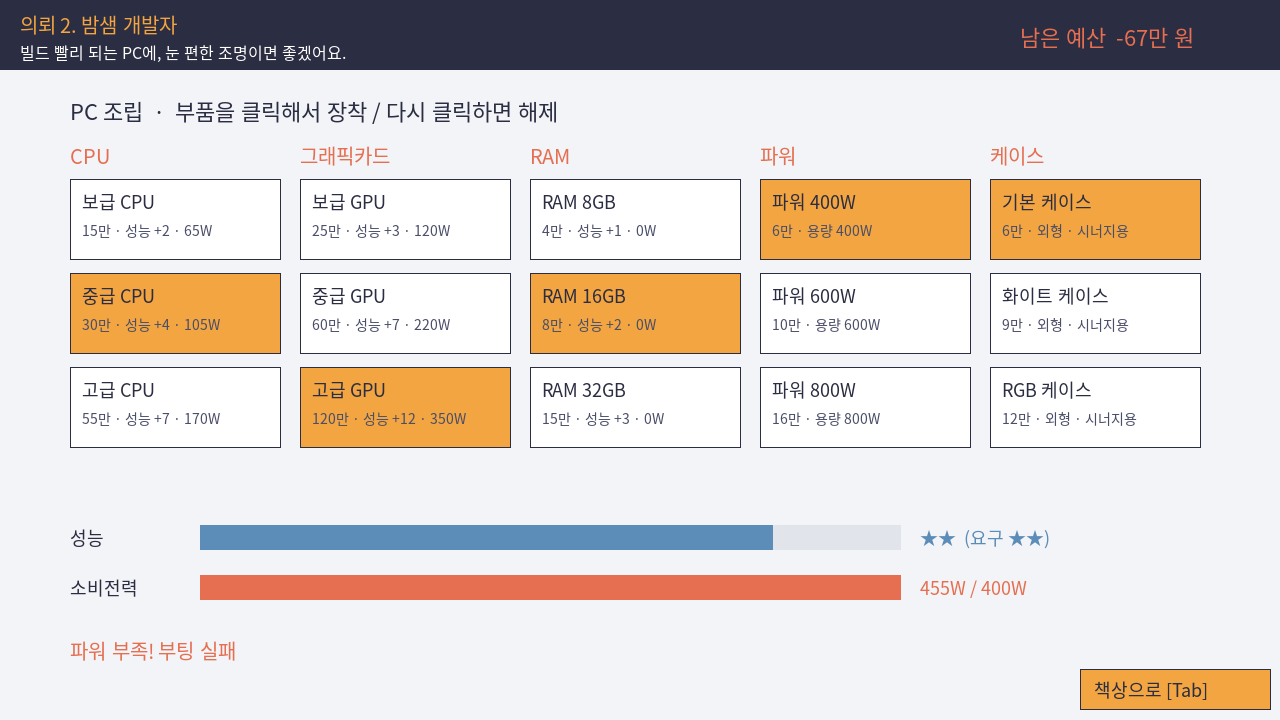
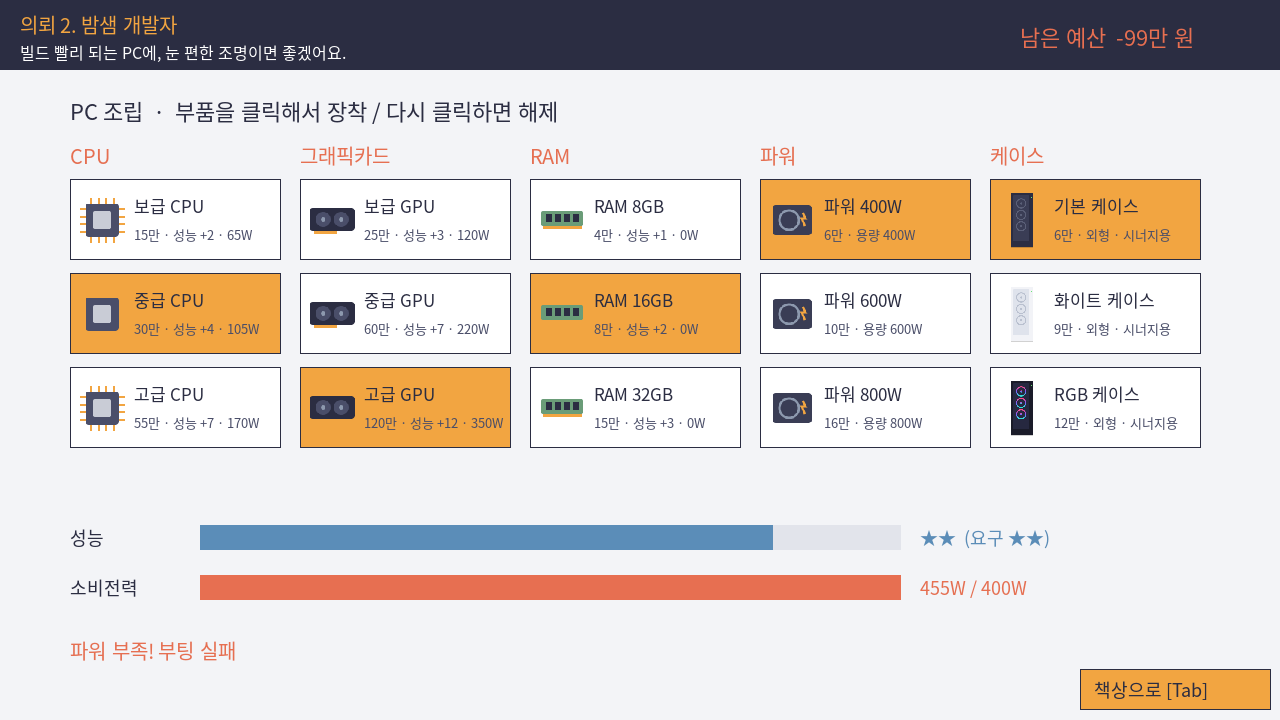
게임 화면 그래픽: 소품 · 방 배경 · 책상 · PC 케이스 · 부품 스프라이트
Claude-Session: https://claude.ai/code/session_015NHYVWJqA9gnniJqxpTcqF

diff --git a/tools/make_sprites.js b/tools/make_sprites.js
@@ -1,0 +1,156 @@
+// 소품 · 배경 스프라이트(SVG → PNG) 생성: node tools/make_sprites.js
+const sharp = require('sharp'), path = require('path');
+const OUT = path.join(__dirname, '..', 'resource');
+const S = {};
+const shadow = (cx, y, rx) => `<ellipse cx="${cx}" cy="${y}" rx="${rx}" ry="4" fill="#000" opacity=".18"/>`;
+
+// ---- 책상 위 (바닥선 = 높이) ----
+S.monitor = [188, 118, `
+  ${shadow(94,115,50)}
+  <rect x="64" y="108" width="60" height="8" rx="3" fill="#3a3d55"/>
+  <rect x="88" y="86" width="12" height="24" fill="#4a4e69"/>
+  <rect x="4" y="2" width="180" height="88" rx="6" fill="#1f2133"/>
+  <defs><linearGradient id="sc" x1="0" y1="0" x2="1" y2="1"><stop offset="0" stop-color="#2e4a7a"/><stop offset="1" stop-color="#4f86c6"/></linearGradient></defs>
+  <rect x="10" y="8" width="168" height="74" rx="2" fill="url(#sc)"/>
+  <rect x="18" y="16" width="60" height="5" rx="2" fill="#f2a541"/><rect x="18" y="27" width="92" height="5" rx="2" fill="#9fd3c7"/>
+  <rect x="30" y="38" width="70" height="5" rx="2" fill="#e9e4f0"/><rect x="30" y="49" width="48" height="5" rx="2" fill="#e76f51"/>
+  <rect x="18" y="60" width="80" height="5" rx="2" fill="#9fd3c7"/>
+  <path d="M120 8 L178 8 L178 40 Z" fill="#fff" opacity=".08"/>`];
+S.keyboard = [88, 26, `${shadow(44,24,40)}<rect x="2" y="6" width="84" height="16" rx="4" fill="#c9ccd6"/>
+  ${[0,1].map(r=>[...Array(9)].map((_,c)=>`<rect x="${7+c*9}" y="${9+r*6}" width="6" height="4" rx="1" fill="#f7f7fa"/>`).join('')).join('')}`];
+S.gaming_kb = [88, 28, `<defs><linearGradient id="rgb" x1="0" x2="1"><stop offset="0" stop-color="#ff4d8d"/><stop offset=".5" stop-color="#7b5cff"/><stop offset="1" stop-color="#2ee6d6"/></linearGradient></defs>
+  <rect x="0" y="20" width="88" height="6" rx="3" fill="url(#rgb)" opacity=".7"/>
+  <rect x="2" y="6" width="84" height="16" rx="4" fill="#1f2133"/>
+  ${[0,1].map(r=>[...Array(9)].map((_,c)=>`<rect x="${7+c*9}" y="${9+r*6}" width="6" height="4" rx="1" fill="url(#rgb)"/>`).join('')).join('')}`];
+const lamp = (shade, glow) => [88, 104, `
+  <path d="M60 30 L88 104 L20 104 Z" fill="${glow}" opacity=".22"/>
+  ${shadow(28,101,22)}<ellipse cx="28" cy="98" rx="20" ry="5" fill="#3a3d55"/>
+  <rect x="25" y="40" width="6" height="58" fill="#4a4e69"/>
+  <path d="M28 44 L56 22" stroke="#4a4e69" stroke-width="6" stroke-linecap="round"/>
+  <path d="M40 8 L76 22 L66 40 L34 24 Z" fill="${shade}"/>
+  <circle cx="58" cy="33" r="5" fill="${glow}"/>`];
+S.lamp_warm = lamp('#f2a541', '#ffd27a');
+S.lamp_cool = lamp('#a9d6ea', '#e8f8ff');
+S.book = [88, 62, `${shadow(44,60,40)}
+  <rect x="8" y="44" width="72" height="14" rx="2" fill="#5b8db8"/><rect x="8" y="44" width="72" height="3" fill="#fff" opacity=".5"/>
+  <rect x="14" y="30" width="62" height="14" rx="2" fill="#e76f51"/><rect x="14" y="30" width="62" height="3" fill="#fff" opacity=".5"/>
+  <rect x="10" y="16" width="66" height="14" rx="2" fill="#6a9c78"/><rect x="10" y="16" width="66" height="3" fill="#fff" opacity=".5"/>
+  <rect x="58" y="2" width="12" height="14" rx="1" fill="#f2a541" transform="rotate(12 64 9)"/>`];
+S.mug = [88, 52, `${shadow(40,50,22)}
+  <path d="M34 4 q-6 6 0 12 q6 6 0 12" stroke="#fff" stroke-width="3" fill="none" opacity=".8"/>
+  <path d="M46 2 q-6 6 0 12 q6 6 0 12" stroke="#fff" stroke-width="3" fill="none" opacity=".6"/>
+  <rect x="22" y="20" width="38" height="30" rx="5" fill="#fafafa" stroke="#d5d8e0" stroke-width="2"/>
+  <path d="M60 26 q14 0 14 10 q0 10 -14 10" stroke="#d5d8e0" stroke-width="5" fill="none"/>
+  <rect x="22" y="30" width="38" height="6" fill="#e76f51"/>`];
+S.mini_plant = [88, 76, `${shadow(44,74,24)}
+  <path d="M44 44 C30 30 20 34 14 20 C30 20 40 28 44 44" fill="#6a9c78"/>
+  <path d="M44 44 C58 28 70 32 76 16 C58 18 48 28 44 44" fill="#5a8a68"/>
+  <path d="M44 46 C40 26 46 12 44 2 C52 14 50 30 44 46" fill="#7fb38b"/>
+  <path d="M28 46 L60 46 L55 74 L33 74 Z" fill="#d9774f"/><rect x="26" y="44" width="36" height="7" rx="2" fill="#e88b62"/>`];
+S.mic = [88, 100, `${shadow(44,98,26)}<ellipse cx="44" cy="95" rx="24" ry="5" fill="#2b2d42"/>
+  <rect x="41" y="50" width="6" height="46" fill="#4a4e69"/>
+  <rect x="30" y="8" width="28" height="46" rx="14" fill="#2b2d42"/>
+  ${[0,1,2,3,4].map(i=>`<rect x="34" y="${14+i*7}" width="20" height="2" fill="#8d99ae"/>`).join('')}
+  <rect x="52" y="44" width="10" height="4" rx="2" fill="#e76f51"/>`];
+
+// ---- 벽 (밴드 안 가운데) ----
+S.shelf = [188, 74, `
+  <rect x="20" y="10" width="14" height="44" rx="3" fill="#e76f51"/><rect x="36" y="16" width="14" height="38" rx="3" fill="#5b8db8"/>
+  <rect x="52" y="6" width="14" height="48" rx="3" fill="#f2a541"/><rect x="68" y="18" width="12" height="36" rx="3" fill="#6a9c78" transform="rotate(-12 74 36)"/>
+  <path d="M130 54 q-14 -2 -12 -22 q2 -18 14 -22 q12 4 14 22 q2 20 -12 22 Z" fill="#c9ada7"/>
+  <path d="M132 14 q-8 -10 -2 -14 M134 14 q6 -10 12 -8" stroke="#6a9c78" stroke-width="3" fill="none"/>
+  <rect x="160" y="34" width="18" height="20" rx="3" fill="#2b2d42"/>
+  <rect x="0" y="54" width="188" height="9" rx="2" fill="#8b5e3c"/><rect x="0" y="54" width="188" height="3" fill="#a8774f"/>
+  <path d="M24 63 L24 74 L38 63 Z M150 63 L164 74 L164 63 Z" fill="#6b4429"/>`];
+S.frame = [88, 84, `<rect x="6" y="4" width="76" height="76" rx="3" fill="#8b5e3c"/><rect x="14" y="12" width="60" height="60" fill="#f7efe6"/>
+  <rect x="14" y="12" width="60" height="34" fill="#bfd7ea"/><circle cx="58" cy="26" r="7" fill="#f2a541"/>
+  <path d="M14 56 L32 34 L46 50 L56 40 L74 58 L74 72 L14 72 Z" fill="#6a9c78"/>`];
+S.rgb_bar = [188, 40, `<defs><linearGradient id="bar" x1="0" x2="1"><stop offset="0" stop-color="#ff4d8d"/><stop offset=".5" stop-color="#7b5cff"/><stop offset="1" stop-color="#2ee6d6"/></linearGradient>
+  <filter id="b" x="-20%" y="-200%" width="140%" height="500%"><feGaussianBlur stdDeviation="6"/></filter></defs>
+  <rect x="8" y="14" width="172" height="12" rx="6" fill="url(#bar)" filter="url(#b)" opacity=".9"/>
+  <rect x="8" y="16" width="172" height="8" rx="4" fill="url(#bar)"/>`];
+S.wall_light = [88, 80, `<defs><radialGradient id="wg"><stop offset="0" stop-color="#ffe2a0" stop-opacity=".9"/><stop offset="1" stop-color="#ffe2a0" stop-opacity="0"/></radialGradient></defs>
+  <circle cx="44" cy="44" r="40" fill="url(#wg)"/>
+  <rect x="36" y="20" width="16" height="44" rx="4" fill="#8b5e3c"/>
+  <path d="M26 22 L62 22 L56 4 L32 4 Z" fill="#f7efe6"/><circle cx="44" cy="26" r="6" fill="#fff6d6"/>`];
+S.hanging_plant = [88, 92, `<path d="M44 0 L30 30 M44 0 L58 30" stroke="#8b5e3c" stroke-width="2"/>
+  <path d="M26 30 L62 30 L56 52 L32 52 Z" fill="#f7efe6" stroke="#c9ada7"/>
+  <path d="M32 50 q-8 20 -4 40 M40 52 q-2 16 2 30 M52 52 q6 18 2 34 M58 48 q12 14 10 30" stroke="#5a8a68" stroke-width="4" fill="none" stroke-linecap="round"/>
+  ${[[28,70],[30,84],[42,76],[54,74],[56,88],[66,66],[66,78]].map(([x,y])=>`<ellipse cx="${x}" cy="${y}" rx="6" ry="4" fill="#7fb38b"/>`).join('')}
+  <path d="M28 30 q8 -14 16 -2 q8 -14 16 2" fill="#6a9c78"/>`];
+
+// ---- 바닥 (바닥선 = 높이) ----
+S.rug = [288, 34, `<ellipse cx="144" cy="18" rx="140" ry="15" fill="#e7a08c"/><ellipse cx="144" cy="18" rx="118" ry="11" fill="none" stroke="#f7efe6" stroke-width="3" stroke-dasharray="10 6"/>
+  <ellipse cx="144" cy="18" rx="80" ry="6" fill="#d9846e"/>`];
+S.big_plant = [88, 150, `${shadow(44,148,30)}
+  <path d="M44 100 C20 80 6 90 2 60 C26 64 38 78 44 100" fill="#5a8a68"/><path d="M44 100 C70 76 82 86 86 54 C62 60 50 76 44 100" fill="#6a9c78"/>
+  <path d="M44 100 C30 60 40 30 30 4 C50 26 54 66 44 100" fill="#7fb38b"/><path d="M44 100 C56 60 70 46 66 20 C50 40 42 70 44 100" fill="#5a8a68"/>
+  <path d="M22 100 L66 100 L60 148 L28 148 Z" fill="#e9e4f0" stroke="#c9ada7" stroke-width="2"/><rect x="20" y="98" width="48" height="8" rx="3" fill="#f7f4fa"/>`];
+const chair = (seat, back, accent) => [188, 160, `${shadow(94,157,52)}
+  ${[30,94,158].map(x=>`<circle cx="${x}" cy="152" r="6" fill="#2b2d42"/>`).join('')}
+  <path d="M30 150 L94 132 L158 150" stroke="#3a3d55" stroke-width="7" fill="none"/>
+  <rect x="88" y="104" width="12" height="30" fill="#4a4e69"/>
+  <rect x="28" y="90" width="132" height="20" rx="9" fill="${seat}"/>
+  <rect x="44" y="4" width="100" height="92" rx="16" fill="${back}"/>
+  ${accent}`];
+S.chair = chair('#8d99ae', '#a3adbf', `<rect x="58" y="16" width="72" height="6" rx="3" fill="#c3cad6"/>`);
+S.gaming_chair = chair('#2b2d42', '#2b2d42', `<path d="M60 8 L80 8 L74 96 L66 96 Z M128 8 L108 8 L114 96 L122 96 Z" fill="#c8323c"/>
+  <rect x="64" y="20" width="60" height="16" rx="8" fill="#c8323c"/><rect x="18" y="80" width="18" height="10" rx="4" fill="#c8323c"/><rect x="152" y="80" width="18" height="10" rx="4" fill="#c8323c"/>`);
+
+// ---- PC 케이스 ----
+const tower = (body, panel, inner) => [84, 196, `${shadow(42,194,40)}
+  <rect x="2" y="2" width="80" height="190" rx="6" fill="${body}"/>
+  <rect x="10" y="12" width="58" height="160" rx="4" fill="${panel}"/>${inner}
+  <rect x="72" y="16" width="5" height="5" rx="2" fill="#6be675"/>`];
+const fans = c => [40, 80, 120].map(y => `<circle cx="39" cy="${y}" r="16" fill="none" stroke="${c}" stroke-width="4"/><circle cx="39" cy="${y}" r="4" fill="${c}"/>`).join('');
+S.case1 = tower('#2b2d42', '#3a3d55', fans('#5b6078'));
+S.case2 = tower('#f2f3f7', '#dfe3ec', fans('#b9c0cf'));
+S.case3 = tower('#1a1b29', '#262840', fans('#ff4d8d').replace(/#ff4d8d/g, 'url(#rgb)') + `<defs><linearGradient id="rgb" x1="0" y1="0" x2="0" y2="1"><stop offset="0" stop-color="#ff4d8d"/><stop offset=".5" stop-color="#7b5cff"/><stop offset="1" stop-color="#2ee6d6"/></linearGradient></defs>`);
+S.case_empty = [84, 196, `<rect x="2" y="2" width="80" height="190" rx="6" fill="none" stroke="#8d99ae" stroke-width="3" stroke-dasharray="8 6"/>`];
+
+// ---- 부품 아이콘 ----
+S.part_CPU = [64, 64, `<rect x="10" y="10" width="44" height="44" rx="4" fill="#4a4e69"/><rect x="20" y="20" width="24" height="24" rx="2" fill="#c9ccd6"/>
+  ${[16,26,36,46].map(v=>`<rect x="${v}" y="2" width="3" height="8" fill="#f2a541"/><rect x="${v}" y="54" width="3" height="8" fill="#f2a541"/><rect x="2" y="${v}" width="8" height="3" fill="#f2a541"/><rect x="54" y="${v}" width="8" height="3" fill="#f2a541"/>`).join('')}`];
+S.part_GPU = [64, 64, `<rect x="2" y="16" width="60" height="30" rx="4" fill="#2b2d42"/><circle cx="20" cy="31" r="10" fill="#4a4e69"/><circle cx="44" cy="31" r="10" fill="#4a4e69"/>
+  <circle cx="20" cy="31" r="3" fill="#8d99ae"/><circle cx="44" cy="31" r="3" fill="#8d99ae"/><rect x="8" y="46" width="30" height="5" fill="#f2a541"/>`];
+S.part_RAM = [64, 64, `<rect x="4" y="20" width="56" height="20" rx="2" fill="#6a9c78"/>${[10,22,34,46].map(x=>`<rect x="${x}" y="24" width="8" height="10" fill="#2b2d42"/>`).join('')}
+  <rect x="6" y="40" width="52" height="4" fill="#f2a541"/>`];
+S.part_PSU = [64, 64, `<rect x="6" y="12" width="52" height="40" rx="4" fill="#3a3d55"/><circle cx="28" cy="32" r="13" fill="none" stroke="#8d99ae" stroke-width="3"/>
+  <path d="M46 22 L50 30 L45 30 L49 40" stroke="#f2a541" stroke-width="3" fill="none"/>`];
+S.part_CASE = [64, 64, `<rect x="16" y="4" width="32" height="56" rx="4" fill="#4a4e69"/><rect x="20" y="10" width="20" height="44" rx="2" fill="#5b6078"/><circle cx="30" cy="22" r="6" fill="none" stroke="#2ee6d6" stroke-width="2"/>`];
+
+// ---- 방 배경 (x 270~1280, y 0~650 영역 = 1010 x 650) ----
+const W = 1010, H = 650, floorH = 190;
+S.room_bg = [W, H, `<defs>
+  <linearGradient id="wall" x1="0" y1="0" x2="0" y2="1"><stop offset="0" stop-color="#e4def0"/><stop offset="1" stop-color="#efeaf5"/></linearGradient>
+  <linearGradient id="night" x1="0" y1="0" x2="0" y2="1"><stop offset="0" stop-color="#1e2a4a"/><stop offset="1" stop-color="#4a5d8c"/></linearGradient>
+  <linearGradient id="fl" x1="0" y1="0" x2="0" y2="1"><stop offset="0" stop-color="#b98a62"/><stop offset="1" stop-color="#a0714c"/></linearGradient>
+  <pattern id="stripe" width="40" height="10" patternUnits="userSpaceOnUse"><rect width="20" height="10" fill="#fff" opacity=".18"/></pattern></defs>
+  <rect width="${W}" height="${H}" fill="url(#wall)"/><rect width="${W}" height="${H}" fill="url(#stripe)"/>
+  <g transform="translate(880 70)"><rect x="-8" y="-8" width="126" height="236" rx="4" fill="#f7f4fa"/>
+    <rect width="110" height="220" fill="url(#night)"/>
+    ${[[20,30],[70,20],[90,60],[40,80],[15,120]].map(([x,y])=>`<circle cx="${x}" cy="${y}" r="1.6" fill="#fff"/>`).join('')}
+    <circle cx="78" cy="42" r="12" fill="#fff4c9"/><circle cx="84" cy="38" r="11" fill="url(#night)"/>
+    <path d="M0 220 L0 170 L18 170 L18 150 L34 150 L34 180 L52 180 L52 140 L74 140 L74 165 L92 165 L92 130 L110 130 L110 220 Z" fill="#141c33"/>
+    ${[[6,180],[24,160],[58,150],[60,170],[96,140],[100,160],[40,190]].map(([x,y])=>`<rect x="${x}" y="${y}" width="5" height="6" fill="#f2c26b"/>`).join('')}
+    <rect x="53" y="0" width="4" height="220" fill="#f7f4fa"/><rect x="0" y="108" width="110" height="4" fill="#f7f4fa"/>
+    <rect x="-14" y="224" width="138" height="8" rx="2" fill="#f7f4fa"/></g>
+  <rect y="${H - floorH - 14}" width="${W}" height="14" fill="#f7f4fa"/><rect y="${H - floorH - 3}" width="${W}" height="3" fill="#d5cfe0"/>
+  <rect y="${H - floorH}" width="${W}" height="${floorH}" fill="url(#fl)"/>
+  ${[...Array(6)].map((_,i)=>`<rect y="${H - floorH + 4 + i*32}" width="${W}" height="2" fill="#8b5e3c" opacity=".35"/>`).join('')}
+  ${[...Array(6)].map((_,i)=>[...Array(5)].map((_,j)=>`<rect x="${(j*230 + (i%2)*115 + 60)}" y="${H - floorH + 6 + i*32}" width="2" height="30" fill="#8b5e3c" opacity=".3"/>`).join('')).join('')}`];
+
+// 책상 (상판 + 다리 + 서랍) 820 x 270
+S.desk = [820, 272, `<rect x="0" y="0" width="820" height="22" rx="4" fill="#9a6a44"/><rect x="0" y="0" width="820" height="6" rx="3" fill="#b8865d"/>
+  <rect x="14" y="22" width="22" height="250" fill="#7a5132"/><rect x="784" y="22" width="22" height="250" fill="#7a5132"/>
+  <rect x="600" y="22" width="184" height="70" fill="#8b5e3c"/><rect x="606" y="28" width="172" height="58" rx="3" fill="#9a6a44"/>
+  <rect x="672" y="52" width="40" height="8" rx="4" fill="#5e3c22"/>
+  <rect x="36" y="22" width="564" height="10" fill="#7a5132"/>`];
+
+(async () => {
+  for (const [name, [w, h, body]] of Object.entries(S)) {
+    const svg = `<svg xmlns="http://www.w3.org/2000/svg" width="${w}" height="${h}" viewBox="0 0 ${w} ${h}">${body}</svg>`;
+    await sharp(Buffer.from(svg)).png().toFile(path.join(OUT, name + '.png'));
+  }
+  console.log(Object.keys(S).length, 'sprites');
+})();

diff --git a/decorate_mode.py b/decorate_mode.py
@@ -6,12 +6,12 @@ import build_mode
 import result_mode
 import state
 import ui
-from common import WIDTH, HEIGHT, ITEMS, box, outline, text, to_canvas_y, inside
+from common import WIDTH, HEIGHT, ITEMS, box, outline, text, to_canvas_y, inside, sprite, draw_fit
 from room import LAYERS, LAYER_NAMES, SLOT_X0, SLOT_W, SLOT_COUNT, drop_target
 
 SHOP_W, ROW_H, ROW_TOP = 270, 31, 600
 SHOP_IDS = list(ITEMS)
-PC_RECT = (1170, 80, 1250, 270)
+PC_RECT = (1168, 80, 1252, 276)
 BTN_PC = (930, 10, 1090, 50)
 BTN_DONE = (1100, 10, 1270, 50)
 
@@ -92,34 +92,36 @@ def update():
     pass
 
 
-def text_color(color):
-    return (43, 45, 66) if sum(color) > 450 else (255, 255, 255)
-
-
-def draw_item(item_id, x1, y1, x2, y2):
-    c = tuple(ITEMS[item_id]['color'])
-    box(x1, y1, x2, y2, c)
-    outline(x1, y1, x2, y2)
-    text(x1 + 6, (y1 + y2) // 2, ITEMS[item_id]['name'], 14, text_color(c))
+def draw_sprite(item_id, x1, y1, x2, y2):
+    """칸(rect) 안에 소품을 그린다. 책상 위 · 바닥은 바닥선에 붙이고, 벽은 가운데 정렬."""
+    img = sprite(item_id)
+    cx = (x1 + x2) // 2
+    layer = ITEMS[item_id]['layer']
+    if item_id == 'rug':
+        img.draw(cx, 60 + img.h // 2)
+    elif layer == 'wall':
+        img.draw(cx, (y1 + y2) // 2)
+    else:
+        img.draw(cx, y1 + img.h // 2)
 
 
 def draw_room():
-    box(SHOP_W, 190, WIDTH, HEIGHT - 70, (233, 228, 240))   # 벽
-    box(SHOP_W, 0, WIDTH, 190, (201, 173, 167))             # 바닥
-    box(SLOT_X0 - 10, 310, SLOT_X0 + SLOT_W * SLOT_COUNT + 10, 330, (139, 94, 60))  # 책상 상판
-    box(SLOT_X0, 60, SLOT_X0 + 18, 310, (107, 68, 41))
-    box(SLOT_X0 + SLOT_W * SLOT_COUNT - 18, 60, SLOT_X0 + SLOT_W * SLOT_COUNT, 310, (107, 68, 41))
-    box(*PC_RECT, (43, 45, 66))
-    pc_ok = len(state.pc) == 5
-    text(PC_RECT[0] + 22, PC_RECT[3] - 24, 'PC', 22, (242, 165, 65) if pc_ok else (255, 255, 255))
-    text(PC_RECT[0] + 8, PC_RECT[1] + 20, f"{len(state.pc)}/5", 16, (255, 255, 255))
-    for layer, (bottom, h) in LAYERS.items():
-        text(SHOP_W + 8, bottom + h // 2, LAYER_NAMES[layer], 14, (141, 153, 174))
-        if held and ITEMS[held]['layer'] == layer:  # 놓을 수 있는 레이어 슬롯 표시
-            for s in range(SLOT_COUNT):
+    sprite('room_bg').draw(SHOP_W + (WIDTH - SHOP_W) // 2, (HEIGHT - 70) // 2)
+    by_layer = lambda *layers: [p for p in state.room.placed if p['layer'] in layers]
+    for p in by_layer('wall') + [p for p in by_layer('floor') if p['id'] == 'rug']:
+        draw_sprite(p['id'], *state.room.rect(p))
+    sprite('desk').draw(SLOT_X0 + SLOT_W * SLOT_COUNT // 2, 330 - 136)
+    for p in by_layer('desk') + [p for p in by_layer('floor') if p['id'] != 'rug']:
+        draw_sprite(p['id'], *state.room.rect(p))
+    case = state.pc.get('CASE')
+    sprite(case or 'case_empty').draw((PC_RECT[0] + PC_RECT[2]) // 2, PC_RECT[1] + 98)
+    label = '부팅 준비' if len(state.pc) == 5 else f"PC 부품 {len(state.pc)}/5"
+    text(PC_RECT[0] - 6, PC_RECT[3] + 14, label, 14, (43, 45, 66))
+    if held:
+        bottom, h = LAYERS[ITEMS[held]['layer']]
+        for s in range(SLOT_COUNT):
+            if state.room.fits(held, ITEMS[held]['layer'], s):  # 놓을 수 있는 칸만 표시
                 outline(SLOT_X0 + s * SLOT_W + 4, bottom, SLOT_X0 + (s + 1) * SLOT_W - 4, bottom + h, (242, 165, 65))
-    for p in state.room.placed:
-        draw_item(p['id'], *state.room.rect(p))
 
 
 def draw_shop():
@@ -130,9 +132,8 @@ def draw_shop():
         it = ITEMS[item_id]
         x1, y1, x2, y2 = shop_row(i)
         dim = it['price'] > left
-        box(x1, y1, x1 + 22, y2, tuple(it['color']))
-        outline(x1, y1, x1 + 22, y2)
-        text(x1 + 30, (y1 + y2) // 2, it['name'], 15, (170, 170, 170) if dim else (43, 45, 66))
+        draw_fit(item_id, x1 + 14, (y1 + y2) // 2, 28, 25)
+        text(x1 + 34, (y1 + y2) // 2, it['name'], 15, (170, 170, 170) if dim else (43, 45, 66))
         text(x2 - 92, (y1 + y2) // 2, f"{it['price']}만 · {LAYER_NAMES[it['layer']]}", 13, (141, 153, 174))
 
 
@@ -147,8 +148,6 @@ def draw():
     if toast:
         text(SHOP_W + 230, 30, toast, 16, (231, 111, 81))
     if held:
-        w = ITEMS[held]['size'] * SLOT_W - 12
-        h = LAYERS[ITEMS[held]['layer']][1]
         x, y = mouse
-        draw_item(held, x - w // 2, y - h // 2, x + w // 2, y + h // 2)
+        sprite(held).draw(x, y)
     update_canvas()

diff --git a/common.py b/common.py
@@ -1,8 +1,8 @@
-"""화면 크기, 데이터, 폰트, 그리기 도우미. 그래픽은 지금 사각형 + 글자이고, 나중에 이미지로 교체한다."""
+"""화면 크기, 데이터, 폰트, 그리기 도우미. 스프라이트는 resource/ (tools/make_sprites.js로 생성)."""
 import json
 import os
 
-from pico2d import draw_rectangle, load_font
+from pico2d import draw_rectangle, load_font, load_image
 
 WIDTH, HEIGHT = 1280, 720
 BASE = os.path.dirname(os.path.abspath(__file__))
@@ -54,3 +54,19 @@ def to_canvas_y(event_y):
 def inside(x, y, rect):
     x1, y1, x2, y2 = rect
     return x1 <= x <= x2 and y1 <= y <= y2
+
+
+_images = {}
+
+
+def sprite(name):
+    if name not in _images:
+        _images[name] = load_image(os.path.join(BASE, 'resource', name + '.png'))
+    return _images[name]
+
+
+def draw_fit(name, cx, cy, max_w, max_h):
+    """비율을 유지한 채 상자 안에 맞춰 그린다 (상점 썸네일 · 부품 아이콘용)."""
+    img = sprite(name)
+    k = min(max_w / img.w, max_h / img.h)
+    img.draw(cx, cy, img.w * k, img.h * k)

diff --git a/build_mode.py b/build_mode.py
@@ -5,7 +5,7 @@ import game_framework
 import decorate_mode
 import state
 import ui
-from common import WIDTH, HEIGHT, PARTS, box, outline, text, to_canvas_y, inside
+from common import WIDTH, HEIGHT, PARTS, box, outline, text, to_canvas_y, inside, draw_fit
 from scorer import PC_TYPES, pc_stats, boot_status
 
 COL_X0, COL_W, CARD_H = 70, 230, 80
@@ -95,8 +95,9 @@ def draw():
         on = state.pc.get(p['type']) == pid
         box(x1, y1, x2, y2, (242, 165, 65) if on else (255, 255, 255))
         outline(x1, y1, x2, y2)
-        text(x1 + 12, y2 - 22, p['name'], 18)
-        text(x1 + 12, y2 - 50, f"{p['price']}만 · {describe(p)}", 14, (74, 78, 105))
+        draw_fit(pid if p['type'] == 'CASE' else 'part_' + p['type'], x1 + 32, (y1 + y2) // 2, 48, 56)
+        text(x1 + 64, y2 - 26, p['name'], 17)
+        text(x1 + 64, y2 - 54, f"{p['price']}만 · {describe(p)}", 13, (74, 78, 105))
 
     perf, watt, cap, stars = pc_stats(state.pc)
     need = state.request()['perf']

diff --git a/README.md b/README.md
@@ -39,11 +39,12 @@ python main.py
 | `scorer.py` | 채점 · 시너지 · 부팅 판정 (`python scorer.py`로 자체 테스트) |
 | `state.py` | 의뢰 하나 동안의 배치 · PC · 예산 상태 |
 | `data/*.json` | 소품 · 부품 · 의뢰 데이터 (코드 수정 없이 추가) |
+| `resource/`, `tools/make_sprites.js` | 소품 · 방 · PC 스프라이트와 생성 스크립트 |
 | `docs/` | 1차 발표 PPT, 기획서 PPT, 화면 캡처 |
 
 ## 진행 현황
 
-- [x] 1차: 기획 · 핵심 루프 프로토타입 (도형 그래픽, 의뢰 3개)
-- [ ] 그래픽 교체 (손님 캐릭터는 AI 이미지 생성 툴로 직접 제작)
+- [x] 1차: 기획 · 핵심 루프 프로토타입 (일러스트 소품 · 방 · PC 그래픽, 의뢰 3개)
+- [ ] 손님 캐릭터 그래픽 (AI 이미지 생성 툴로 직접 제작)
 - [ ] 의뢰 6개 · 소품 24개 · 손님 표정 · 해금
 - [ ] 자유 모드 · 저장 · 사운드
